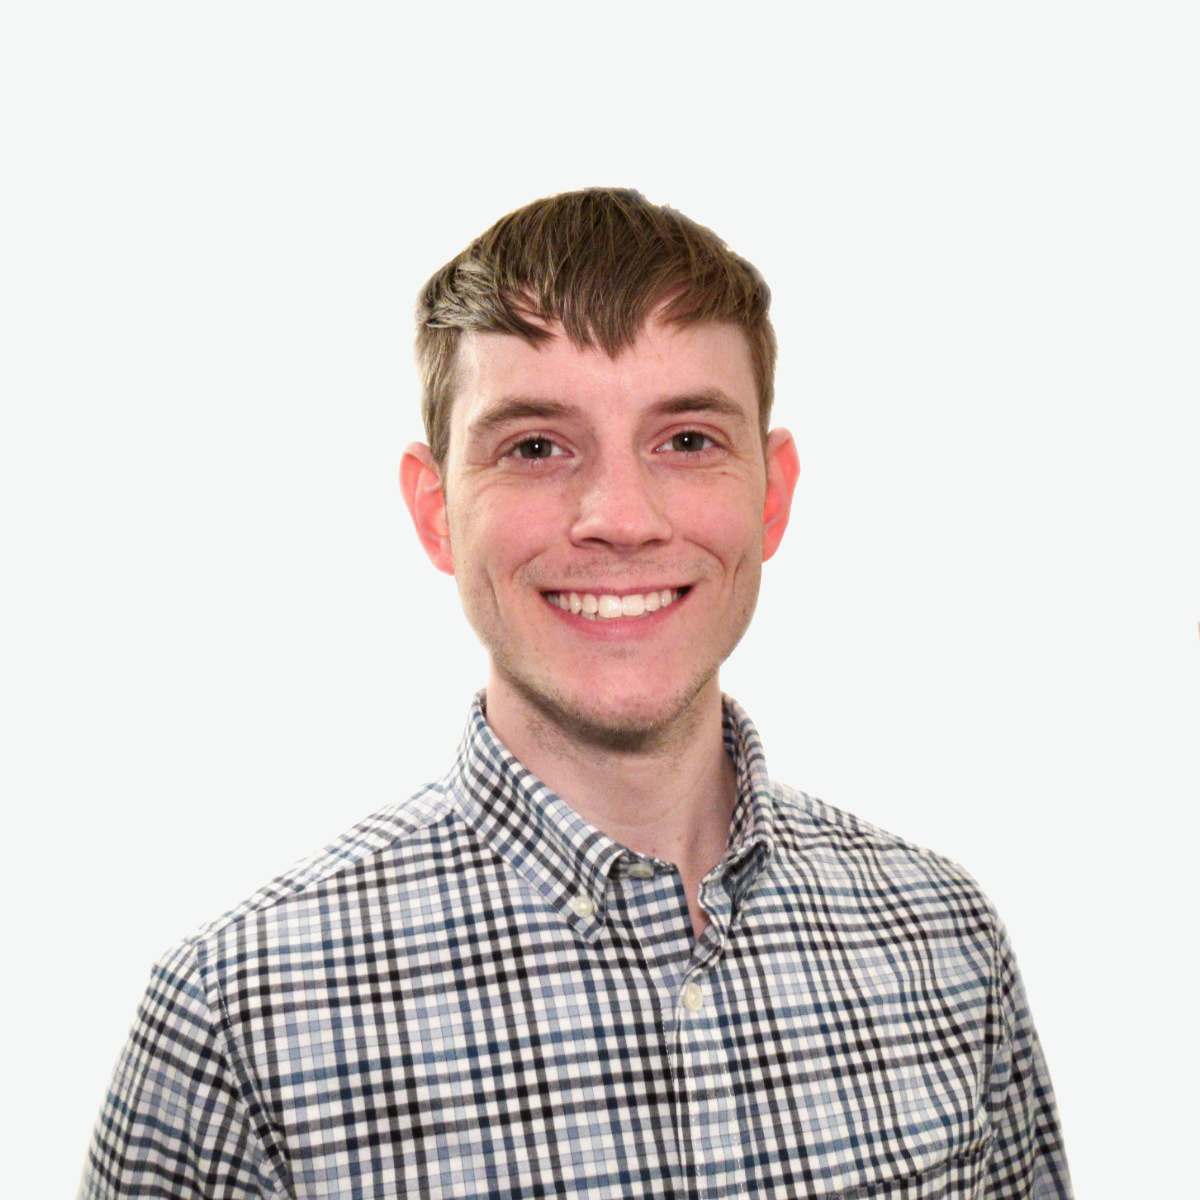
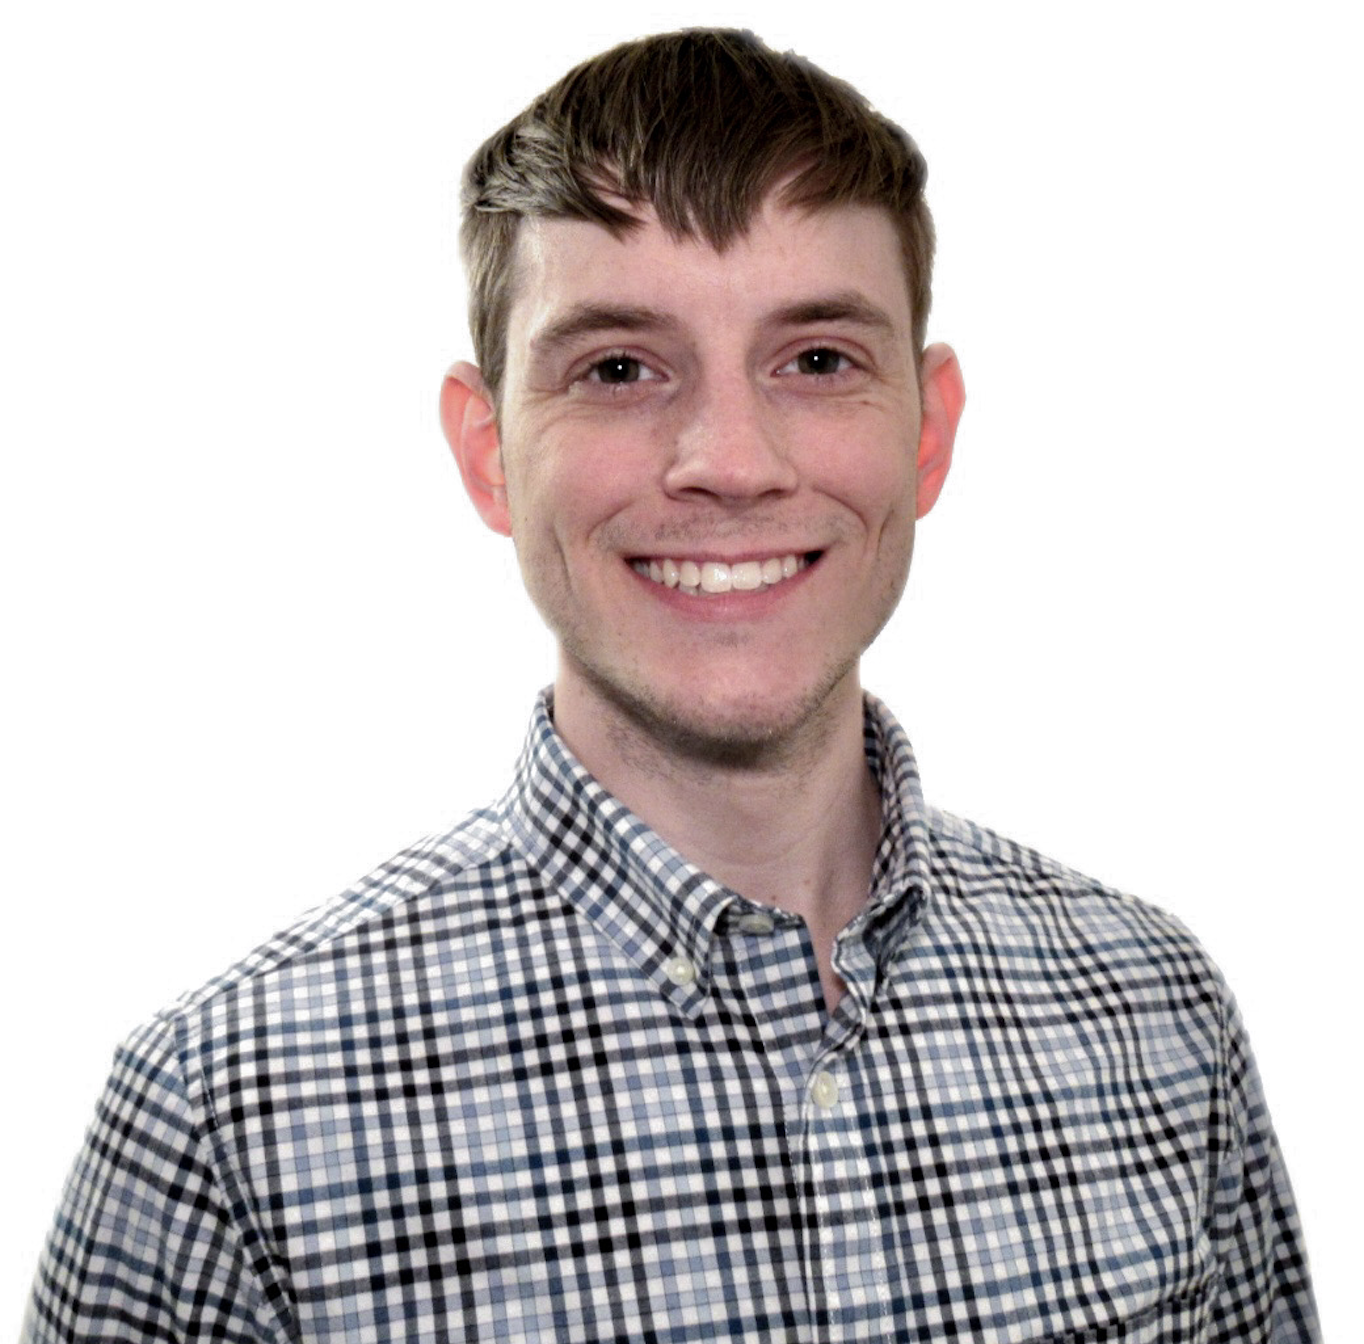
change about layout. TODO - fix inline styles

diff --git a/src/pages/about.html b/src/pages/about.html
@@ -14,42 +14,26 @@
     @@include('./_layouts/header.html')
     @@include('./_layouts/nav.html')
     <main>
-      <div class="body-content">
-        <section class="about-content">
-          <h1 class="about-header">ABOUT</h1>
-          <img src="/img/lee-profile2.png"
-               alt="headshot of Lee Cooper">
-          <div class="primary-horizontal-divider"></div>
-        </section>
-        <section>
-          <h2>Who Am I?</h2>
-          <p>Hello! My name is Lee Cooper. I'm a web developer with experience
-            developing, deploying, and maintaining enterprise-level web
-            applications, with a specialization in designing accessible and user-friendly interfaces and components.
-          </p>
-        </section>
-        <section>
-          <h2>Background</h2>
-          <p>I was introduced to software development during my second year of college, where I took an
-            "Introduction to C++" course as an elective while I finished out the remainder of my classes for my
-            business associates degree.</p>
-          <p>After the first class, I was hooked.</p>
-          <p>Switching my major, I went on to achieve my bachelors degree in Information Systems
-            Technology at Southern Illinois University in Carbondale and accepted a position at
-            Progressive Insurance as an IT Applications Developer.</p>
-          <p>That one class offering began my journey of becoming a professional software developer, where I get to
-            do what I love everyday - build software that changes the lives of others.</p>
-        </section>
-        <section>
-          <h2>What Am I Up To Now?</h2>
-          <p>In addition to my work at Progressive, my 2022 goals are to teach web development classes and
-            create websites for local businesses in need of a web presence. This led to the creation of
-            <a href="https://cooperweb.dev">cooperweb.dev</a> as a
-            way to
-            reach these goals.
-          </p>
-          <p>Explore the site, and feel free to <a href="/contact.html">reach out</a>.</p>
-        </section>
+      <div style="display: flex; flex-wrap: wrap; justify-content: center; margin: 1rem;">
+        <img src="/img/lee-profile2.png"
+             alt="headshot of Lee Cooper"
+             style="min-width: 8rem; width: 100%; min-height: 8rem; max-width: 30rem; max-height: 30rem; margin-top: 2rem;">
+        <div style="display: flex; flex-direction: column; min-width: 8rem; max-width: 30rem; margin-top: 2rem;">
+          <section>
+            <h2>Who Am I?</h2>
+            <p>Hello! My name is Lee Cooper. I'm a web developer with experience
+              developing, deploying, and maintaining enterprise-level web
+              applications, with a specialization in designing accessible and user-friendly interfaces and components.
+            </p>
+          </section>
+          <section>
+            <h2>What Am I Up To Now?</h2>
+            <p>My 2022 goals are to increase my proficiency in UI / UX Design, learn React to create re-usable
+              components, and create design systems with other developers on Github!
+            </p>
+            <p>Explore the site, and feel free to reach out!</p>
+          </section>
+        </div>
       </div>
     </main>
     @@include('./_layouts/footer.html')
